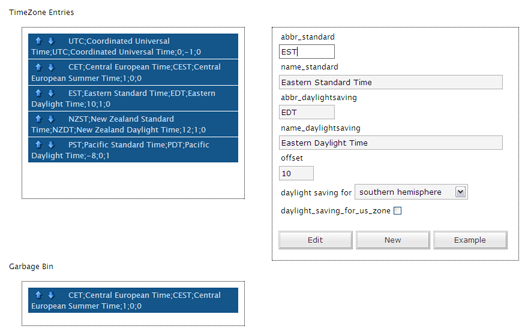
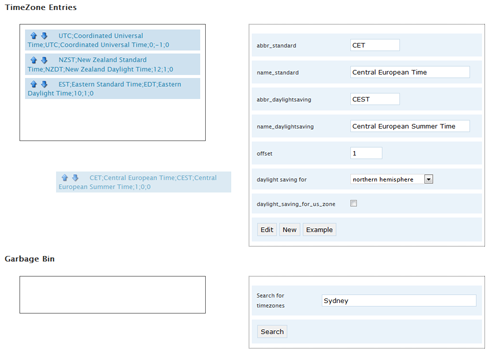
git-svn-id: https://plugins.svn.wordpress.org/timezonecalculator/trunk@35850 b8457f37-d9ea-0310-8a92-e5e31aec5664

diff --git a/timezonecalculator.php b/timezonecalculator.php
@@ -5,7 +5,7 @@ Plugin Name: TimeZoneCalculator
 Plugin URI: http://www.neotrinity.at/projects/
 Description: Calculates different times and dates in timezones with respect to daylight saving on basis of utc. - Find the options <a href="options-general.php?page=timezonecalculator/timezonecalculator.php">here</a>!
 Author: Bernhard Riedl
-Version: 0.54
+Version: 0.60
 Author URI: http://www.neotrinity.at
 */
 
@@ -62,20 +62,47 @@ for the admin-page
 
 function timezones_admin_head() {
 	global $wp_version;
+
+	/*
+	check if wordpress_admin_themes are available
+	*/
+
+	if (version_compare($wp_version, "2.5", ">=")) {
+		global $_wp_admin_css_colors;
+
+		$current_color = get_user_option('admin_color');
+		if ( empty($current_color) )
+			$current_color = 'fresh';
+
+
+		$current_wp_admin_css_colors=$_wp_admin_css_colors[$current_color]->colors;
+
+	}
+
+	/*
+	if themes are not available, use default colors
+	*/
+
+	else {
+		$current_wp_admin_css_colors=array("#14568a", "#14568a", "", "#c3def1");
+	}
+
 	if (version_compare($wp_version, "2.1", ">=")) {
+
 ?>
 
      <style type="text/css">
 
       li.timezones_sortablelist {
-  		background-color : #14568a;
-		color: #c3def1;
+		background-color: <?php echo $current_wp_admin_css_colors[1]; ?>;
+		color: <?php echo $current_wp_admin_css_colors[3]; ?>;
 		cursor : move;
 		padding: 3px 5px 3px 5px;
       }
 
       ul.timezones_sortablelist {
-		border: 1px dotted;
+		float: left;
+		border: 1px <?php echo $current_wp_admin_css_colors[0]; ?> solid;
 		list-style-image : none;
 		list-style-type : none;
 		margin: 10px 20px 20px 30px;
@@ -86,29 +113,18 @@ function timezones_admin_head() {
 		float: right;
 		cursor : move;
 		border: 1px dotted;
-		margin: 35px 20px 0px 0px;
-		width: 400px;
+		margin: 10px 20px 0px 0px;
+		width: 460px;
 		padding: 5px;
       }
 
-      #timezones_new, #timezones_create, #timezones_loadExample, #timezones_search_timeanddate {
-		margin: 10px 5px 10px 0px;
-		background: url( images/fade-butt.png );
-		border: 3px double #999;
-		border-left-color: #ccc;
-		border-top-color: #ccc;
-		color: #333;
-		padding: 0.25em;
-		width: 124px;
-		text-align: center;
-		float:left;
-      }
+	#timezones_DragandDrop_Edit_Label {
+		background-color: <?php echo $current_wp_admin_css_colors[1]; ?>;
+		color: <?php echo $current_wp_admin_css_colors[3]; ?>;
+	}
 
-	#timezones_new:active, #timezones_create:active, #timezones_loadExample:active, timezones_search_timeanddate:active {
-		background: #f4f4f4;
-		border: 3px double #ccc;
-		border-left-color: #999;
-		border-top-color: #999;
+	#timezones_DragandDrop_Edit_Message {
+		color: <?php echo $current_wp_admin_css_colors[0]; ?>;
 	}
 
 	img.timezones_arrowbutton {
@@ -143,7 +159,7 @@ adds metainformation - please leave this for stats!
 */
 
 function timezonecalculator_wp_head() {
-  echo("<meta name=\"TimeZoneCalculator\" content=\"0.54\" />\n");
+  echo("<meta name=\"TimeZoneCalculator\" content=\"0.60\" />\n");
 }
 
 /*
@@ -243,7 +259,7 @@ function timezonecalculator_checkData($timeZoneTime) {
 		daylight saving 4
      		-  0 ... northern hemisphere
      		-  1 ... southern hemisphere
-     		- -1 ... no daylight saving at all, eg. japan
+     		- -1 ... no daylight saving at all, eg. thailand
 	*/
 
 	$hemisphere=$timeZoneTime[5];
@@ -547,20 +563,24 @@ function createTimeZoneCalculatorOptionPage() {
 
     <div class="submit">
       <input type="button" id="info_update_click" name="info_update_click" value="<?php _e('Update options') ?>" />
-      <input type="button" id="load_default_click" name="load_default_click" value="<?php _e('Load defaults') ?>" />
+      <input type="button" id="load_default_click" name="load_default_click" value="<?php _e('Load defaults') ?>" /><br /><br />
+
     </div>
 
          <a name="<?php echo($fieldsPre); ?>Drag_and_Drop"></a><h2>Drag and Drop Layout</h2>
 
-     <fieldset>
-        <legend>It maybe a good start for TimeZoneCalculator first-timers to click on <em>Load defaults</em>.</legend>
-        <legend>You can customize the descriptions by clicking on the desired timezone in each list. Information about cities and their timezones can be searched below.</legend>
-        <legend>Don't forget to click <em>Insert</em> or <em>Edit</em> after adopting and <em>Update options</em> after you're finished.</legend>
-        <legend>Without filling out the <a href="#<?php echo($fieldsPre); ?>CSS_Tags">CSS-Tags</a>, your users might be disappointed... ;) (defaults can be loaded via the <em>Load defaults</em> button)</legend>
-        <legend>Before you publish the results of the plugin you can use the <a href="#<?php echo($fieldsPre); ?>Preview">Preview Section</a> to get the experience first (after pressing <em>Update options</em>).<br /><br /></legend>
-        <legend>If you like to support the development of this plugin, donation are welcome. :)<br /></legend>
-        <legend><form action="https://www.paypal.com/cgi-bin/webscr" method="post"><input type="hidden" name="cmd" value="_xclick" /><input type="hidden" name="business" value="&#110;&#101;&#111;&#64;&#x6E;&#x65;&#x6F;&#x74;&#x72;&#105;&#110;&#x69;&#x74;&#x79;&#x2E;&#x61;t" /><input type="hidden" name="item_name" value="neotrinity.at" /><input type="hidden" name="no_shipping" value="2" /><input type="hidden" name="no_note" value="1" /><input type="hidden" name="currency_code" value="USD" /><input type="hidden" name="tax" value="0" /><input type="hidden" name="bn" value="PP-DonationsBF" /><input type="image" src="https://www.paypal.com/en_US/i/btn/x-click-but04.gif" style="border:0" name="submit" alt="Make payments with PayPal - it's fast, free and secure!" /><img alt="if you like to, you can support me" src="https://www.paypal.com/en_US/i/scr/pixel.gif" width="1" height="1" /></form><br /><br /></legend>
-     </fieldset>
+     <ul>
+        <li>It maybe a good start for TimeZoneCalculator first-timers to click on <em>Load defaults</em>.</li>
+        <li>You can customize the descriptions by clicking on the desired timezone in each list. Information about cities and their timezones can be searched below.</li>
+        <li>Don't forget to click <em>Insert</em> or <em>Edit</em> after adopting and <em>Update options</em> after you're finished.</li>
+        <li>Without filling out the <a href="#<?php echo($fieldsPre); ?>CSS_Tags">CSS-Tags</a>, your users might be disappointed... ;) (defaults can be populated via the <em>Load defaults</em> button)</li>
+        <li>Before you publish the results of the plugin you can use the <a href="#<?php echo($fieldsPre); ?>Preview">Preview Section</a> to get the experience first (after pressing <em>Update options</em>).</li>
+        <li>You can publish the previously selected and saved timezones either by adding a <a href="widgets.php">Sidebar Widget</a> or by calling the <em>php function getTimeZonesTime()</em> wherever you like.</li>
+	</ul>
+
+        If you like to support the development of this plugin, donations are welcome. :) Maybe you also want to <a href="link-add.php">add a link</a> to <a href="http://www.neotrinity.at/projects/">http://www.neotrinity.at/projects/</a>.<br /><br />
+
+        <form action="https://www.paypal.com/cgi-bin/webscr" method="post"><input type="hidden" name="cmd" value="_xclick" /><input type="hidden" name="business" value="&#110;&#101;&#111;&#64;&#x6E;&#x65;&#x6F;&#x74;&#x72;&#105;&#110;&#x69;&#x74;&#x79;&#x2E;&#x61;t" /><input type="hidden" name="item_name" value="neotrinity.at" /><input type="hidden" name="no_shipping" value="2" /><input type="hidden" name="no_note" value="1" /><input type="hidden" name="currency_code" value="USD" /><input type="hidden" name="tax" value="0" /><input type="hidden" name="bn" value="PP-DonationsBF" /><input type="image" src="https://www.paypal.com/en_US/i/btn/x-click-but04.gif" style="border:0" name="submit" alt="Make payments with PayPal - it's fast, free and secure!" /><img alt="if you like to, you can support me" src="https://www.paypal.com/en_US/i/scr/pixel.gif" width="1" height="1" /></form><br /><br />
 
     <?php
     /*
@@ -568,19 +588,17 @@ function createTimeZoneCalculatorOptionPage() {
     */
     ?>
 
-     <div style="float:left">
-     <fieldset>
-	  <legend>TimeZone Entries</legend>
-     </fieldset>
+     <h3>TimeZone Entries</h3>
+
      <?php echo($listTaken); ?>
-     </div>
 
      <?php
 	$timezones_newentry="timezones_newentry_";
 	$timezones_newentry_label="label";
 
 	$newentryFields=array("abbr_standard", "name_standard", "abbr_daylightsaving", "name_daylightsaving");
-	$newentryFieldsLength=array(10,50,10,50);
+	$newentryFieldsLength=array(10,30,10,30);
+	$newentryFieldsMaxLength=array(10,50,10,50);
 
 	/*
 	append dragable add/edit panel
@@ -592,40 +610,43 @@ function createTimeZoneCalculatorOptionPage() {
 
 	<input type="hidden" value="" id="<?php echo($timezones_newentry); ?>idtochange" name="<?php echo($timezones_newentry); ?>_idtochange" />
 
+    <table class="form-table" style="margin-bottom:0">
+
      <?php
 
         for ($i = 0; $i < sizeof($newentryFields); $i++) {
-        	echo("<fieldset><legend><label for=\"".$timezones_newentry.$newentryFields[$i]."\">".$newentryFields[$i]."</label></legend>");
-        	echo("<input onkeyup=\"if(event.keyCode==13) timezones_appendEntry();\" name=\"".$timezones_newentry.$newentryFields[$i]."\" id=\"".$timezones_newentry.$newentryFields[$i]."\" type=\"text\" size=\"".$newentryFieldsLength[$i]."\" maxlength=\"".$newentryFieldsLength[$i]."\" /></fieldset>");
+        	echo("<tr><td><label for=\"".$timezones_newentry.$newentryFields[$i]."\">".$newentryFields[$i]."</label></td>");
+        	echo("<td><input onkeyup=\"if(event.keyCode==13) timezones_appendEntry();\" name=\"".$timezones_newentry.$newentryFields[$i]."\" id=\"".$timezones_newentry.$newentryFields[$i]."\" type=\"text\" size=\"".$newentryFieldsLength[$i]."\" maxlength=\"".$newentryFieldsMaxLength[$i]."\" /></td></tr>");
 	}
 	?>
 
-      <fieldset><legend><label for="<?php echo($timezones_newentry); ?>offset">offset</label></legend>
-      <input onkeyup="if(event.keyCode==13) timezones_appendEntry();" onBlur="timezones_checkNumeric(this,-12.5,12.5,'','.','-',true);" name="<?php echo($timezones_newentry); ?>offset" id="<?php echo($timezones_newentry); ?>offset" type="text" size="5" maxlength="5" /></fieldset>
+      <tr><td><label for="<?php echo($timezones_newentry); ?>offset">offset</label></td>
+      <td><input onkeyup="if(event.keyCode==13) timezones_appendEntry();" onBlur="timezones_checkNumeric(this,-12.5,12.5,'','.','-',true);" name="<?php echo($timezones_newentry); ?>offset" id="<?php echo($timezones_newentry); ?>offset" type="text" size="5" maxlength="5" /></td>
+	</tr>
 
-     <fieldset>
-        <legend><label for="<?php echo($timezones_newentry); ?>daylight_saving_for">daylight saving for</label>
-	  <select onkeyup="if(event.keyCode==13) timezones_appendEntry();" name="<?php echo($timezones_newentry); ?>daylight_saving_for" id="<?php echo($timezones_newentry); ?>daylight_saving_for" style="size:1">
+     <tr>
+        <td><label for="<?php echo($timezones_newentry); ?>daylight_saving_for">daylight saving for</label></td>
+	  <td><select onkeyup="if(event.keyCode==13) timezones_appendEntry();" name="<?php echo($timezones_newentry); ?>daylight_saving_for" id="<?php echo($timezones_newentry); ?>daylight_saving_for" style="size:1">
         <option value="0">northern hemisphere</option>
         <option value="1">southern hemisphere</option>
-        <option value="-1">no daylight saving at all</option></legend>
-        </select>
-     </fieldset>
+        <option value="-1">no daylight saving at all</option>        </select></td>
+     </tr>
 
-     <fieldset>
-        <legend><label for="<?php echo($timezones_newentry); ?>daylight_saving_for_us_zone">daylight_saving_for_us_zone</label>
-        <input onkeyup="if(event.keyCode==13) timezones_appendEntry();" type="checkbox" name="<?php echo($timezones_newentry); ?>daylight_saving_for_us_zone" id="<?php echo($timezones_newentry); ?>daylight_saving_for_us_zone" /></legend>
-     </fieldset>
+     <tr>
+        <td><label for="<?php echo($timezones_newentry); ?>daylight_saving_for_us_zone">daylight_saving_for_us_zone</label></td>
+	  <td><input onkeyup="if(event.keyCode==13) timezones_appendEntry();" type="checkbox" name="<?php echo($timezones_newentry); ?>daylight_saving_for_us_zone" id="<?php echo($timezones_newentry); ?>daylight_saving_for_us_zone" /></td>
+     </tr>
 
-     <fieldset>
-	  <legend style="display:none; color:#14568a" id="<?php echo($timezones_newentry); ?>SuccessLabel" name="<?php echo($timezones_newentry); ?>SuccessLabel"><br /><br /><em>Successfully adopted!</em></legend>
-     </fieldset>
+     <tr style="display:none" id="<?php echo($timezones_newentry); ?>SuccessLabel" name="<?php echo($timezones_newentry); ?>SuccessLabel"><td colspan="2" style="font-weight:bold">Successfully adopted!</td>
+     </tr>
 
-        <fieldset>
-		<input type="button" id="timezones_create" value="Insert" />
+        <tr>
+		<td colspan="2"><input type="button" id="timezones_create" value="Insert" />
 		<input type="button" id="timezones_new" value="New" />
-        	<input type="button" id="timezones_loadExample" value="Example" />
-	  </fieldset>
+        	<input type="button" id="timezones_loadExample" value="Example" /></td>
+	  </tr>
+
+	</table>
 
      </div>
 
@@ -637,22 +658,24 @@ function createTimeZoneCalculatorOptionPage() {
     */
      ?>
 
-     <div style="float:left">
-     <fieldset>
-        <legend>Garbage Bin</legend>
-     </fieldset>
+     <h3>Garbage Bin</h3>
+
      <?php echo($listAvailable); ?>
-     </div>
 
      <div id="timezones_Search" name="timezones_Search">
 
-        <fieldset>
-		<input type="text" value="" id="timezones_search_timeanddate_query" name="timezones_search_timeanddate_query" size="50" onkeyup="if(event.keyCode==13) timezones_search_timeanddate_openWindow();"/>
-        </fieldset>
+    <table class="form-table" style="margin-bottom:0">
 
-        <fieldset>
-      	<input type="button" id="timezones_search_timeanddate" name="timezones_search_timeanddate" value="Search" onClick="timezones_search_timeanddate_openWindow();"/>
-        </fieldset>
+        <tr>
+		<td><label for="timezones_search_timeanddate_query">Search for timezones</label></td>
+		<td><input type="text" value="" id="timezones_search_timeanddate_query" name="timezones_search_timeanddate_query" size="40" maxlength="50" onkeyup="if(event.keyCode==13) timezones_search_timeanddate_openWindow();"/></td>
+        </tr>
+
+        <tr>
+      	<td colspan="2"><input type="button" id="timezones_search_timeanddate" name="timezones_search_timeanddate" value="Search" onClick="timezones_search_timeanddate_openWindow();"/></td>
+        </tr>
+
+	</table>
 
      </div>
 
@@ -664,21 +687,14 @@ function createTimeZoneCalculatorOptionPage() {
 
             <a name="<?php echo($fieldsPre); ?>Content"></a><h2>Content</h2>
 
-   		<fieldset>
-        <legend>In this section you can edit your TimeZones. - Please stick to the syntax stated below.</legend>
+   		In this section you can edit your TimeZones. - Please stick to the syntax stated below.
 
     <?php
 	global $wp_version;
 	if (version_compare($wp_version, "2.1", ">=")) { ?>
-        <legend>This is the static customizing section, forming the mirror of the <a href="#<?php echo($fieldsPre) ?>Drag_and_Drop">Drag and Drop Layout</a> section.</legend>
-        <legend>Changes to positions which you make here are only reflected in the <a href="#<?php echo($fieldsPre) ?>Drag_and_Drop">dynamic section</a> after pressing <em>Update options</em>.</legend>
-	<?php } ?>
+        Further, this static customizing section forms the mirror of the <a href="#<?php echo($fieldsPre) ?>Drag_and_Drop">Drag and Drop Layout</a> section. Changes to positions which you make here are only reflected in the <a href="#<?php echo($fieldsPre) ?>Drag_and_Drop">dynamic section</a> after pressing <em>Update options</em>.
+	<?php } ?><br/><br/>
 
-        <legend>Without filling out the <a href="#<?php echo($fieldsPre); ?>CSS_Tags">CSS-Tags</a>, your users might be disappointed... ;) (defaults can be loaded via the <em>Load defaults</em> button)</legend>
-        <legend>Before you publish the results of the plugin you can use the <a href="#<?php echo($fieldsPre); ?>Preview">Preview Section</a> to get the experience first (after pressing <em>Update options</em>).<br /><br /></legend>
-   		</fieldset>
-
-   		<fieldset>
    		<em>Syntax</em>
 		<ul>
 			<li>abbr "standard";</li>
@@ -687,10 +703,10 @@ function createTimeZoneCalculatorOptionPage() {
 			<li>name daylight saving;</li>
 			<li>time-offset;</li>
 
-			<li>daylight saving 4;<ul>
+			<li>daylight saving for;<ul>
 			  	<li>0 ... northern hemisphere</li>
 				<li>1 ... southern hemisphere</li>
-				<li>-1 ... no daylight saving at all, eg. japan</li>
+				<li>-1 ... no daylight saving at all, eg. thailand</li>
 			</ul></li>
 
 			<li>daylight saving in or like us timezone - The <a target="_blank" href="http://en.wikipedia.org/wiki/European_Summer_Time">European Summer Time</a> lasts between the last Sunday in March and the last Sunday in October. Due to the Energy Bill (HR6 / Energy Policy Act of 2005 or Public Law 109-58), the <a target="_blank" href="http://en.wikipedia.org/wiki/Time_in_the_United_States">daylight saving for the states</a> starts on the second Sunday in March and ends on the first Sunday in November.<ul>
@@ -713,35 +729,39 @@ function createTimeZoneCalculatorOptionPage() {
 	    		<li>PST;Pacific Standard Time;PDT;Pacific Daylight Time;-8;0;1</li>
 	    	</ul>
 
-     		</fieldset>
+<a name="<?php echo($fieldsPre); ?>TimeZones"></a>
+    <table class="form-table">
 
-     		<a name="<?php echo($fieldsPre); ?>TimeZones"></a><fieldset>
-          	<legend><label for="TimeZones">TimeZones</label></legend>
-          	<textarea name="TimeZones" id="TimeZones" cols="100" rows="5"><?php echo(get_option('TimeZones')); ?></textarea>
-     		</fieldset>
+     		<tr><td><label for="TimeZones">TimeZones</label></td>
+          	<td><textarea name="TimeZones" id="TimeZones" cols="100" rows="5"><?php echo(get_option('TimeZones')); ?></textarea></td>
+		</tr>
+
+	</table><br /><br />
 
             <a name="<?php echo($fieldsPre); ?>CSS_Tags"></a><h2>CSS-Tags</h2>
+
+    <table class="form-table">
 
 		<?php
 
      		foreach ($csstags as $csstag) {
-          		echo("<fieldset>");
-            	echo("<legend><label for=\"".$fieldsPre.$csstag."\">");
+          		echo("<tr>");
+            	echo("<td><label for=\"".$fieldsPre.$csstag."\">");
             	_e($csstag);
-            	echo("</label></legend>");
-              	echo("<input type=\"text\" size=\"30\" name=\"".$fieldsPre.$csstag."\" id=\"".$fieldsPre.$csstag."\" value=\"".htmlspecialchars(stripslashes(get_option($fieldsPre.$csstag)))."\" />");
-       	   	echo("</fieldset>");
+            	echo("</label></td>");
+              	echo("<td><input type=\"text\" size=\"30\" name=\"".$fieldsPre.$csstag."\" id=\"".$fieldsPre.$csstag."\" value=\"".htmlspecialchars(stripslashes(get_option($fieldsPre.$csstag)))."\" /></td>");
+       	   	echo("</tr>");
 	      } ?>
 
-	  <fieldset>
-	  <legend>You can optionally customize the Time_Format by using standard PHP syntax.</legend>
-	  <legend>default: yyyy-mm-dd hh:mm which in PHP looks like Y-m-d H:i</legend>
-        <legend>For details please refer to the WordPress <a href="http://codex.wordpress.org/Formatting_Date_and_Time">
-	  Documentation on date and time formatting</a>.</legend>
-        </fieldset>
+	</table><br /><br />
+
+	  You can customize the Time_Format by using standard PHP syntax. default: yyyy-mm-dd hh:mm which in PHP looks like Y-m-d H:i<br/><br/>
+        For details please refer to the WordPress <a href="http://codex.wordpress.org/Formatting_Date_and_Time">
+	  Documentation on date and time formatting</a>.
+        <br/><br/>
 
         <a name="<?php echo($fieldsPre); ?>Preview"></a><h2>Preview (call getTimeZonesTime(); wherever you like!)</h2>
-		<?php getTimeZonesTime(); ?><br /><br />
+		<?php getTimeZonesTime(); ?>
 
     <div class="submit">
       <input type="submit" name="info_update" value="<?php _e('Update options') ?>" />
